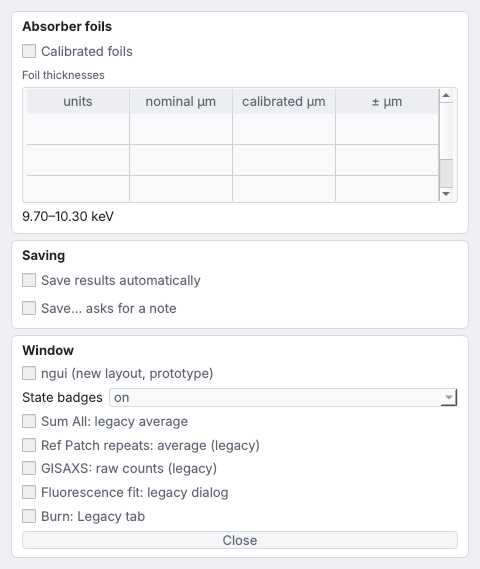
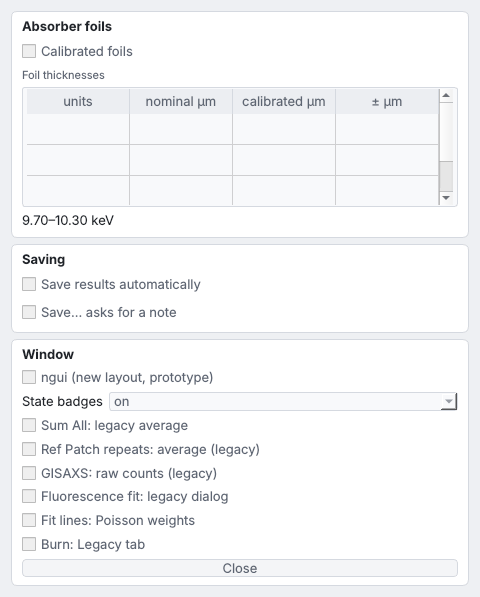
Reduction options: the switch for Fit lines' Poisson weights (mca_fit_poisson, F90 P1)
The tools session's preference mca_fit_poisson (main, #36) gets its box
on Preferences > Reduction options: prefMcaFitPoissonCheckBox, labelled
"Fit lines: Poisson weights (F90 P1)". It is off by default until the
owner's study. Its tooltip gives the synthetic figures from COMPARISONS
C42: at 90 counts, areas 21 % low with today's weighting and 3.6 % high
with Poisson weights. It only stores the preference, and
MainWindow.mcaFitPoisson reads it; no default changes.

- Test: the SWITCHES table of test_gui_reduction_options.py includes it.
- Docs: inventory (dialogs.yaml); ngui's Preferences sketch; MANUAL_NOTES;
  controls.md.
- Screenshots retaken: 95_dialog_preferences.png and ngui's
  11_preferences.png.

Quick suite: 1022 passed.

Claude-Session: https://claude.ai/code/session_017UNj93eCQ98icFoDfMzdiH

diff --git a/ngui/inventory_text.py b/ngui/inventory_text.py
@@ -63,6 +63,7 @@ INVENTORY = {
     'prefRepeatsLegacyCheckBox': ('checkbox', 'Ref Patch repeats: average (legacy)', 'Preferences > Reduction options', 'Off: repeated scans merged in Ref Patch are Sigma N / Sigma M (F81); on: the old equal-weight mean'),
     'prefGisaxsRawCheckBox': ('checkbox', 'GISAXS: raw counts (legacy)', 'Preferences > Reduction options', 'Off: GISAXS per Monc (F91); on: raw counts as before'),
     'prefMcaFitLegacyCheckBox': ('checkbox', 'Fluorescence fit: legacy Fit dialog', 'Preferences > Reduction options', 'Off: the MCA Fit lines button runs the line fit and the legacy Fit/Fit All/Accept are hidden; on: it runs the legacy fit and they show'),
+    'prefMcaFitPoissonCheckBox': ('checkbox', 'Fit lines: Poisson weights (F90 P1)', 'Preferences > Reduction options', "On: the MCA tab's Fit lines fits each spectrum's line heights by Poisson maximum likelihood (MainWindow.mcaFitPoisson); off: least squares weighted by the error bars, as always"),
     'prefBurnLegacyCheckBox': ('checkbox', 'Burn test: show the Legacy tab', 'Preferences > Reduction options', 'Off: the burn dialog shows Trends only; on: also its Legacy tab (the REF button and GID list still open it)'),
     'prefBadgesComboBox': ('combo', 'State badges: on / when not default / off', 'Preferences > Layout', 'Chooses whether the status-bar state badges are shown always, only when a setting differs from its default, or never'),
     'prefClosePushButton': ('button', 'Close', 'Preferences', 'Closes the dialog'),

diff --git a/mainwindow.py b/mainwindow.py
@@ -2246,6 +2246,11 @@ class MainWindow (QMainWindow):
                  'Off (default): the MCA tab\'s Fit lines runs the line fit (lss_core.peaks), and the legacy Fit, Fit All '
                  'and Accept buttons are hidden. On: Fit runs the legacy fit dialog, and those buttons show (owner, '
                  '2026-11-23: one Fit action, the switch picks).'),
+                ('mca_fit_poisson','prefMcaFitPoissonCheckBox','Fit lines: Poisson weights (F90 P1)',
+                 'Off (default): Fit lines fits each spectrum\'s line heights by least squares weighted by its error '
+                 'bars, as always; that reads weak lines low (synthetic, COMPARISONS C42: areas at 90 counts 21 % '
+                 'low). On: by Poisson maximum likelihood, the model weighting the points (synthetic: 3.6 % high at '
+                 '90 counts, 0.6 % at 270). An option until the owner\'s study (tools session, 2026-11-24).'),
                 ('burn_legacy_tab','prefBurnLegacyCheckBox','Burn test: show the Legacy tab',
                  'Off (default): the burn dialog shows its Trends tab only. On: also its Legacy tab, the original plots '
                  '(owner, 2026-11-23, Q-BURN-4). The REF button and the GID list still open it.')):

diff --git a/tests/test_gui_reduction_options.py b/tests/test_gui_reduction_options.py
@@ -10,7 +10,8 @@ pytestmark = pytest.mark.gui
 
 SWITCHES = {'prefSumAllLegacyCheckBox': 'sum_all_legacy_average', 'prefGisaxsRawCheckBox': 'gisaxs_raw_counts',
             'prefRepeatsLegacyCheckBox': 'repeats_legacy_average',
-            'prefMcaFitLegacyCheckBox': 'mca_fit_legacy', 'prefBurnLegacyCheckBox': 'burn_legacy_tab'}
+            'prefMcaFitLegacyCheckBox': 'mca_fit_legacy', 'prefBurnLegacyCheckBox': 'burn_legacy_tab',
+            'prefMcaFitPoissonCheckBox': 'mca_fit_poisson'}       # F90 P1, an option (2026-11-24)
 
 
 def test_the_page_comes_first_and_holds_the_switches(window, recorder):

diff --git a/ngui/layout.py b/ngui/layout.py
@@ -674,6 +674,7 @@ PREFERENCES = [
         C('prefRepeatsLegacyCheckBox', 'Ref Patch repeats: average (legacy)'),
         C('prefGisaxsRawCheckBox', 'GISAXS: raw counts (legacy)'),
         C('prefMcaFitLegacyCheckBox', 'Fluorescence fit: legacy dialog'),
+        C('prefMcaFitPoissonCheckBox', 'Fit lines: Poisson weights', note='F90 P1, an option until the owner\'s study'),
         C('prefBurnLegacyCheckBox', 'Burn: Legacy tab'),
         C('prefClosePushButton', 'Close'),
     ]),

diff --git a/docs/manual/controls.md b/docs/manual/controls.md
@@ -285,6 +285,7 @@ Generated by `python tests/tools/dump_tooltips.py`; do not edit by hand. Control
 | Preferences | Reduction options | prefRepeatsLegacyCheckBox | QCheckBox | Ref Patch repeats: average (legacy) | Off (default): repeated reflectivity scans merged in Ref Patch add their counts and monitors, then normalise once, Sigma N / Sigma M (owner, 2026-11-23; F81). On: the equal-weight mean, as before. |
 | Preferences | Reduction options | prefGisaxsRawCheckBox | QCheckBox | GISAXS: raw counts (legacy) | Off (default): GISAXS sums frames per Monc (Sigma N / Sigma M, F91). On: the raw counts, as before. |
 | Preferences | Reduction options | prefMcaFitLegacyCheckBox | QCheckBox | Fluorescence fit: legacy Fit dialog | Off (default): the MCA tab's Fit lines runs the line fit (lss_core.peaks), and the legacy Fit, Fit All and Accept buttons are hidden. On: Fit runs the legacy fit dialog, and those buttons show (owner, 2026-11-23: one Fit action, the switch picks). |
+| Preferences | Reduction options | prefMcaFitPoissonCheckBox | QCheckBox | Fit lines: Poisson weights (F90 P1) | Off (default): Fit lines fits each spectrum's line heights by least squares weighted by its error bars, as always; that reads weak lines low (synthetic, COMPARISONS C42: areas at 90 counts 21 % low). On: by Poisson maximum likelihood, the model weighting the points (synthetic: 3.6 % high at 90 counts, 0.6 % at 270). An option until the owner's study (tools session, 2026-11-24). |
 | Preferences | Reduction options | prefBurnLegacyCheckBox | QCheckBox | Burn test: show the Legacy tab | Off (default): the burn dialog shows its Trends tab only. On: also its Legacy tab, the original plots (owner, 2026-11-23, Q-BURN-4). The REF button and the GID list still open it. |
 | Preferences |  | prefClosePushButton | QPushButton | Close |  |
 | GID worksheet | Settings | gidColumnsSpinBox | QSpinBox | 3 | Pixels summed across each frame, centred on the direct-beam column; the sum is one profile placed at the frame's detector angle (the H slit field of the GID tab). More columns: more counts, coarser 2theta resolution (the pinhole correction, F45, is to lift that limit). |
@@ -488,4 +489,4 @@ Generated by `python tests/tools/dump_tooltips.py`; do not edit by hand. Control
 | Menus |  |  | QAction | Customize | Edit axis, curve and image parameters |
 | Menus |  |  | QAction | Save | Save the figure |
 
-483 controls listed, 349 with a tooltip.
+484 controls listed, 350 with a tooltip.

diff --git a/docs/gui/inventory.md b/docs/gui/inventory.md
@@ -73,6 +73,7 @@ Generated by `python tests/tools/gui_map.py` from `docs/gui/inventory/*.yaml`; d
 | `prefRepeatsLegacyCheckBox` | checkbox | Ref Patch repeats: average (legacy) | Preferences > Reduction options | setPreference | Off: repeated scans merged in Ref Patch are Sigma N / Sigma M (F81); on: the old equal-weight mean | reflectivity |  | always | True | Added 2026-11-23 (F86 switch for the test-speed session's F81). Off by default. |
 | `prefGisaxsRawCheckBox` | checkbox | GISAXS: raw counts (legacy) | Preferences > Reduction options | setPreference | Off: GISAXS per Monc (F91); on: raw counts as before | general |  | always | True | Added 2026-11-23 (F86; owner Q13 and 'one button, switch picks'). Off by default. |
 | `prefMcaFitLegacyCheckBox` | checkbox | Fluorescence fit: legacy Fit dialog | Preferences > Reduction options | setPreference | Off: the MCA Fit lines button runs the line fit and the legacy Fit/Fit All/Accept are hidden; on: it runs the legacy fit and they show | general |  | always | True | Added 2026-11-23 (F86; owner Q13 and 'one button, switch picks'). Off by default. |
+| `prefMcaFitPoissonCheckBox` | checkbox | Fit lines: Poisson weights (F90 P1) | Preferences > Reduction options | setPreference | On: the MCA tab's Fit lines fits each spectrum's line heights by Poisson maximum likelihood (MainWindow.mcaFitPoisson); off: least squares weighted by the error bars, as always | general |  | always | True | Added 2026-11-24 for the tools session's preference mca_fit_poisson (F90 P1). Off by default until the owner's study (docs/studies/2026-11-24_two_decisions_plan.md). Unlike the other switches here, on is the new path. |
 | `prefBurnLegacyCheckBox` | checkbox | Burn test: show the Legacy tab | Preferences > Reduction options | setPreference | Off: the burn dialog shows Trends only; on: also its Legacy tab (the REF button and GID list still open it) | general |  | always | True | Added 2026-11-23 (F86; owner Q13 and 'one button, switch picks'). Off by default. |
 | `prefBadgesComboBox` | combo | State badges: on / when not default / off | Preferences > Layout | setPreference('state_badges') | Chooses whether the status-bar state badges are shown always, only when a setting differs from its default, or never | general |  | always | True | Added 2026-11-23 (F85, owner Q12: three modes). Default 'on'. |
 | `prefClosePushButton` | button | Close | Preferences | close | Closes the dialog | session |  | always | False |  |

diff --git a/docs/gui/prototype/screens/README.md b/docs/gui/prototype/screens/README.md
@@ -18,7 +18,7 @@ Made by `python tests/tools/ngui_screens.py` (do not edit by hand). The window i
 | [`08_retired_controls.png`](08_retired_controls.png) | Help > Retired controls: what the layout drops, with the reasons | 1100 × 700 |
 | [`09_file_export.png`](09_file_export.png) | File > Export…: the only route to exporting (D61) | 460 × 560 |
 | [`10_legacy_reflectivity.png`](10_legacy_reflectivity.png) | Reflectivity > Check frames…: the point-by-point path behind one button (question 13) | 560 × 520 |
-| [`11_preferences.png`](11_preferences.png) | File > Preferences…: what stays in the dialog | 480 × 569 |
+| [`11_preferences.png`](11_preferences.png) | File > Preferences…: what stays in the dialog | 480 × 597 |
 | [`20_left_selection_panel.png`](20_left_selection_panel.png) | Close-up: the selection panel (series, scans, frames with the display mode, background frames folded) | 250 × 823 |
 | [`21_left_scans.png`](21_left_scans.png) | Close-up: the Scans tab's left column, every group open | 336 × 803 |
 | [`22_left_frames.png`](22_left_frames.png) | Close-up: the Frames tab's left column, every group open | 322 × 988 |

diff --git a/docs/MANUAL_NOTES.md b/docs/MANUAL_NOTES.md
@@ -417,7 +417,10 @@ Each line: feature — where — default — script — notes entry (date).
   the old average. **GISAXS**: per Monc (default) or raw counts. **Fluorescence fit**: the MCA tab's one Fit action
   runs the line fit (default) or, when on, the legacy Fit dialog, and then
   also shows the legacy Fit, Fit All and Accept buttons. **Burn test**: shows
-  the dialog's Legacy tab.
+  the dialog's Legacy tab. **Fit lines: Poisson weights** (2026-11-24, F90
+  P1): when on, each spectrum's line heights are fitted by Poisson maximum
+  likelihood instead of least squares weighted by the error bars (which
+  reads weak lines low); off by default until the owner's study.
 - **Ctrl+click** on Ref Patch or on Fit lines runs the other path once and
   writes a line in the Messages pane saying so; no dialog.
 

diff --git a/docs/gui/workflows.md b/docs/gui/workflows.md
@@ -1204,6 +1204,7 @@ flowchart TD
 | `prefRepeatsLegacyCheckBox` Ref Patch repeats: average (legacy) |  |  |  | i |  |  |  |  |  |  |  |  |  |  |
 | `prefGisaxsRawCheckBox` GISAXS: raw counts (legacy) |  |  |  |  |  |  |  |  |  |  |  |  |  | i |
 | `prefMcaFitLegacyCheckBox` Fluorescence fit: legacy Fit dialog |  |  |  |  |  |  |  |  |  |  |  |  |  | i |
+| `prefMcaFitPoissonCheckBox` Fit lines: Poisson weights (F90 P1) |  |  |  |  |  |  |  |  |  |  |  |  |  | i |
 | `prefBurnLegacyCheckBox` Burn test: show the Legacy tab |  |  |  |  |  |  |  |  |  |  |  |  |  | i |
 | `prefBadgesComboBox` State badges: on / when not default / off |  |  |  |  |  |  |  |  |  |  |  |  |  | i |
 | `prefClosePushButton` Close |  |  |  |  |  |  |  |  |  |  |  |  | B |  |
